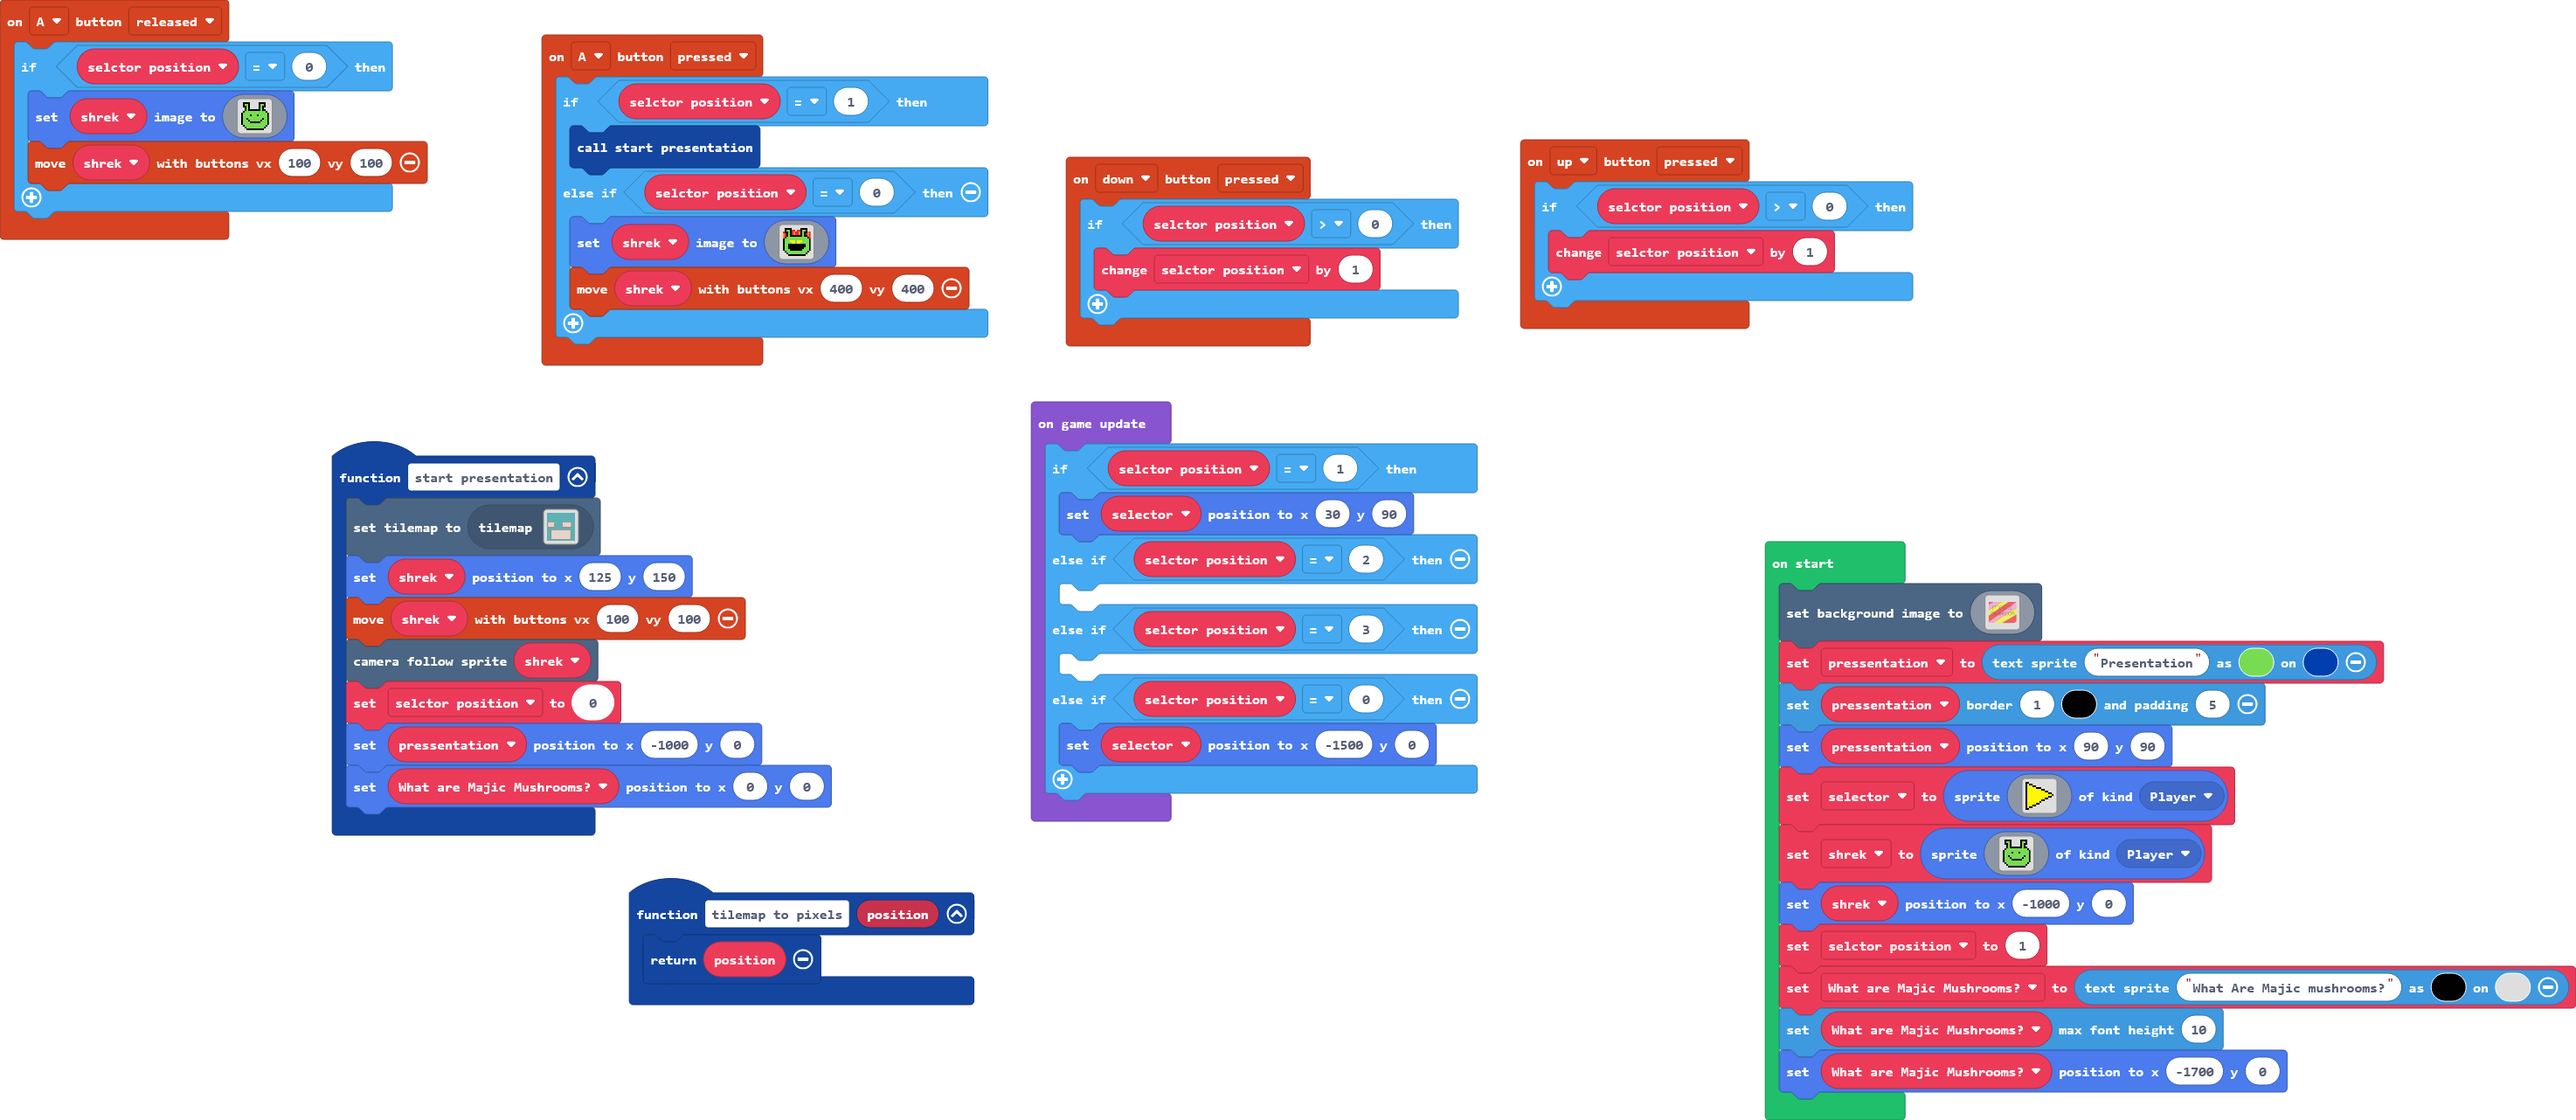
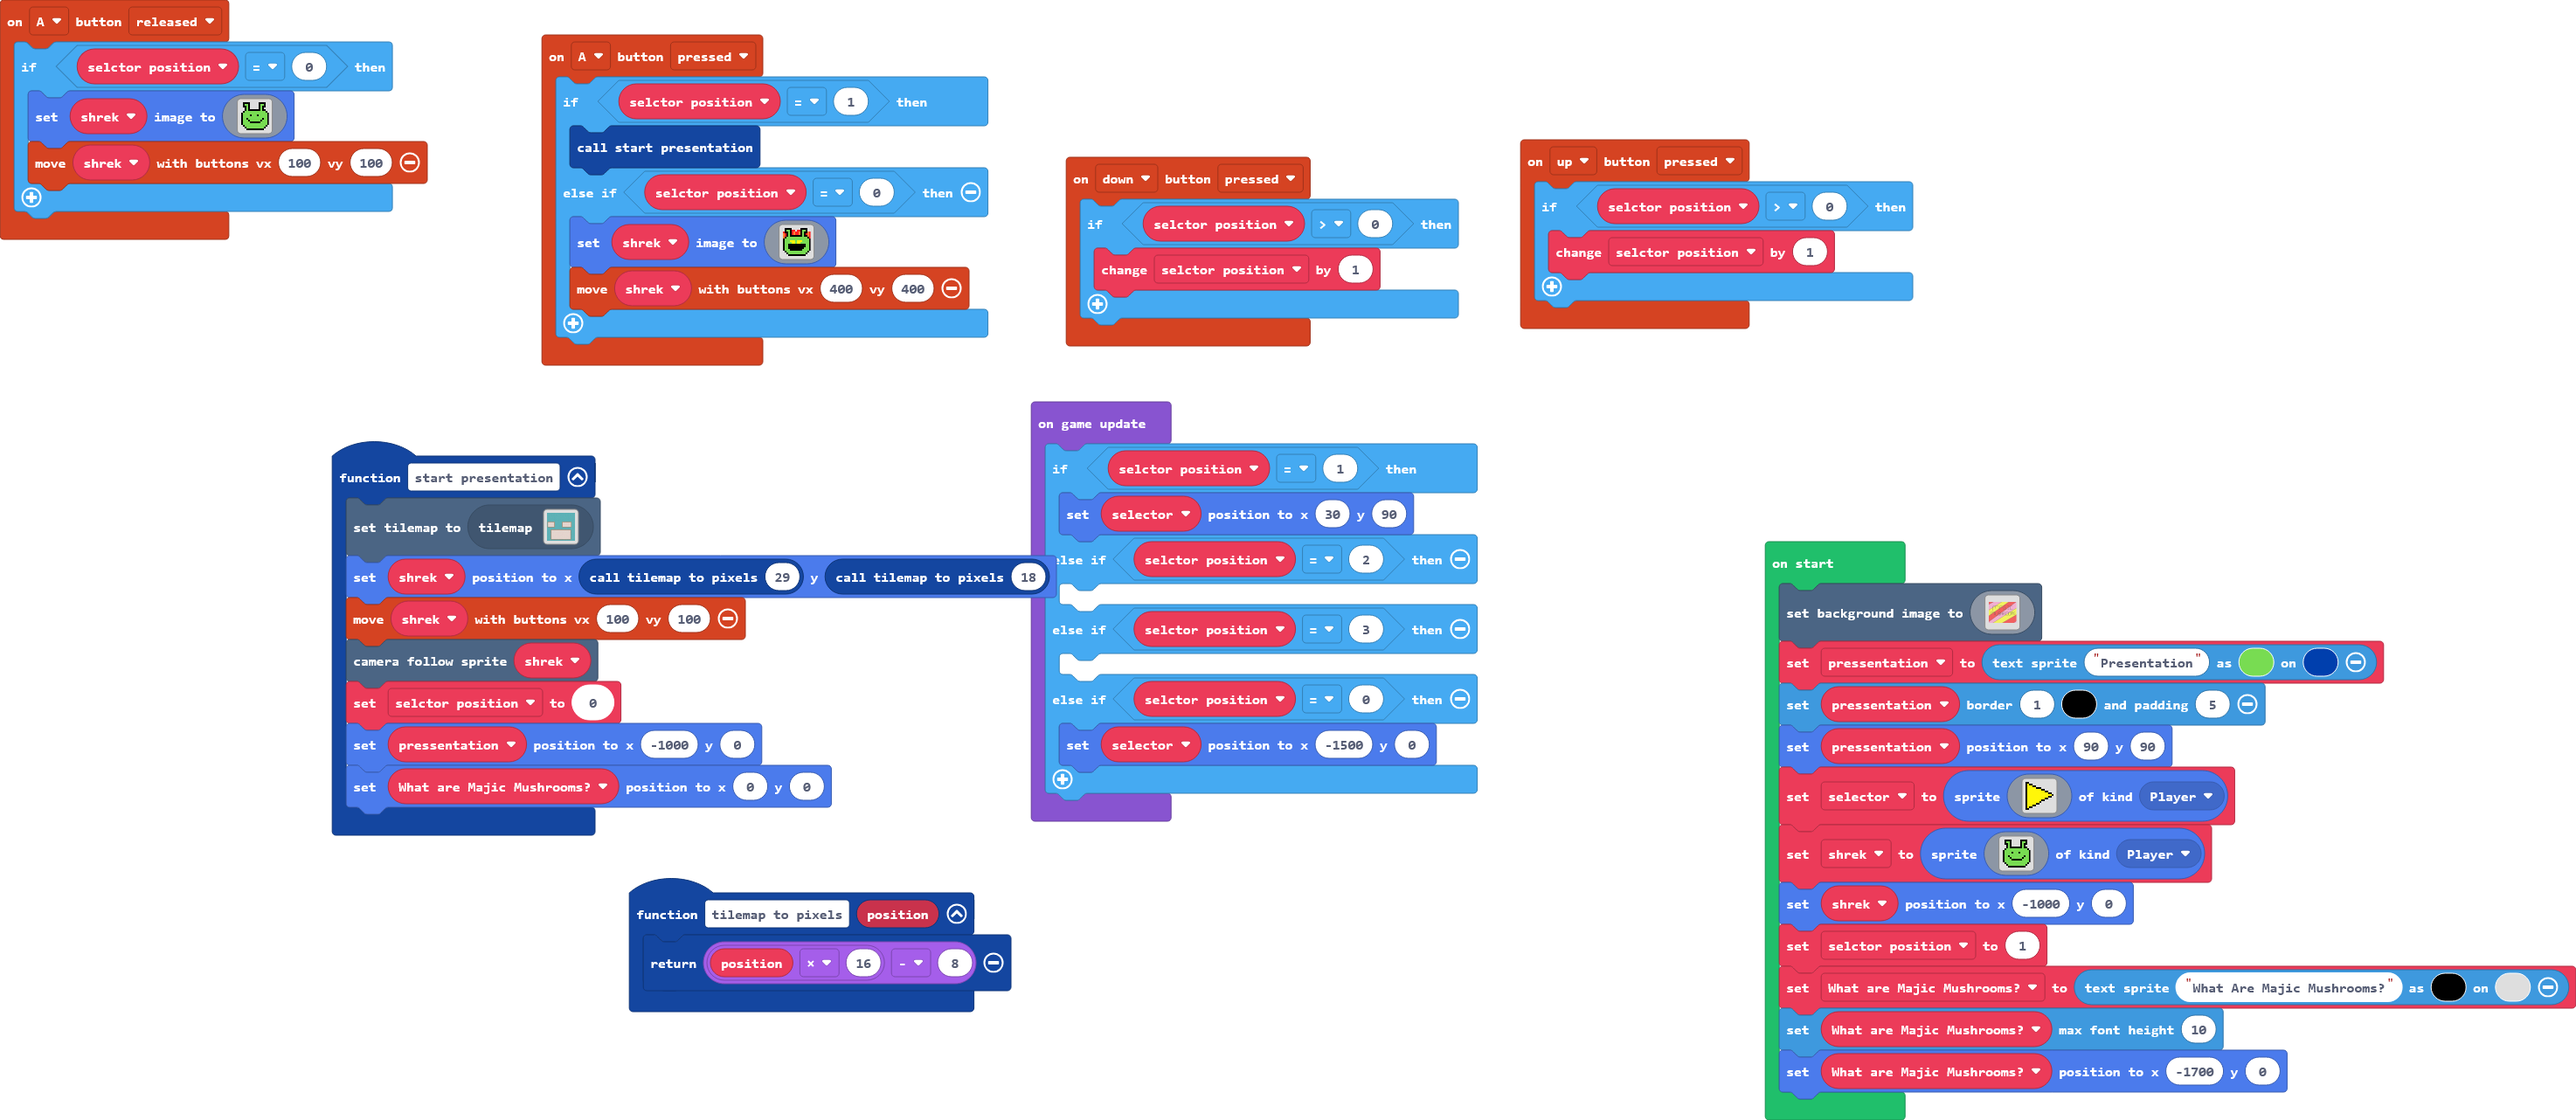
I added the very handy tilemp to pixels function, which is very handy.

Changed region(s): [[0.2185, 0.468, 0.4369, 0.5616], [0.2497, 0.8112, 0.4057, 0.9048]]

diff --git a/main.ts b/main.ts
@@ -53,7 +53,7 @@ controller.A.onEvent(ControllerButtonEvent.Released, function () {
 })
 function start_presentation () {
     tiles.setCurrentTilemap(tilemap`level2`)
-    shrek.setPosition(125, 150)
+    shrek.setPosition(tilemap_to_pixels(29), tilemap_to_pixels(18))
     controller.moveSprite(shrek, 100, 100)
     scene.cameraFollowSprite(shrek)
     selctor_position = 0
@@ -66,7 +66,7 @@ controller.down.onEvent(ControllerButtonEvent.Pressed, function () {
     }
 })
 function tilemap_to_pixels (position: number) {
-    return position
+    return position * 16 - 8
 }
 let What_are_Majic_Mushrooms: TextSprite = null
 let selctor_position = 0
@@ -235,7 +235,7 @@ shrek = sprites.create(img`
     `, SpriteKind.Player)
 shrek.setPosition(-1000, 0)
 selctor_position = 1
-What_are_Majic_Mushrooms = textsprite.create("What Are Majic mushrooms?", 0, 15)
+What_are_Majic_Mushrooms = textsprite.create("What Are Majic Mushrooms?", 0, 15)
 What_are_Majic_Mushrooms.setMaxFontHeight(10)
 What_are_Majic_Mushrooms.setPosition(-1700, 0)
 game.onUpdate(function () {
